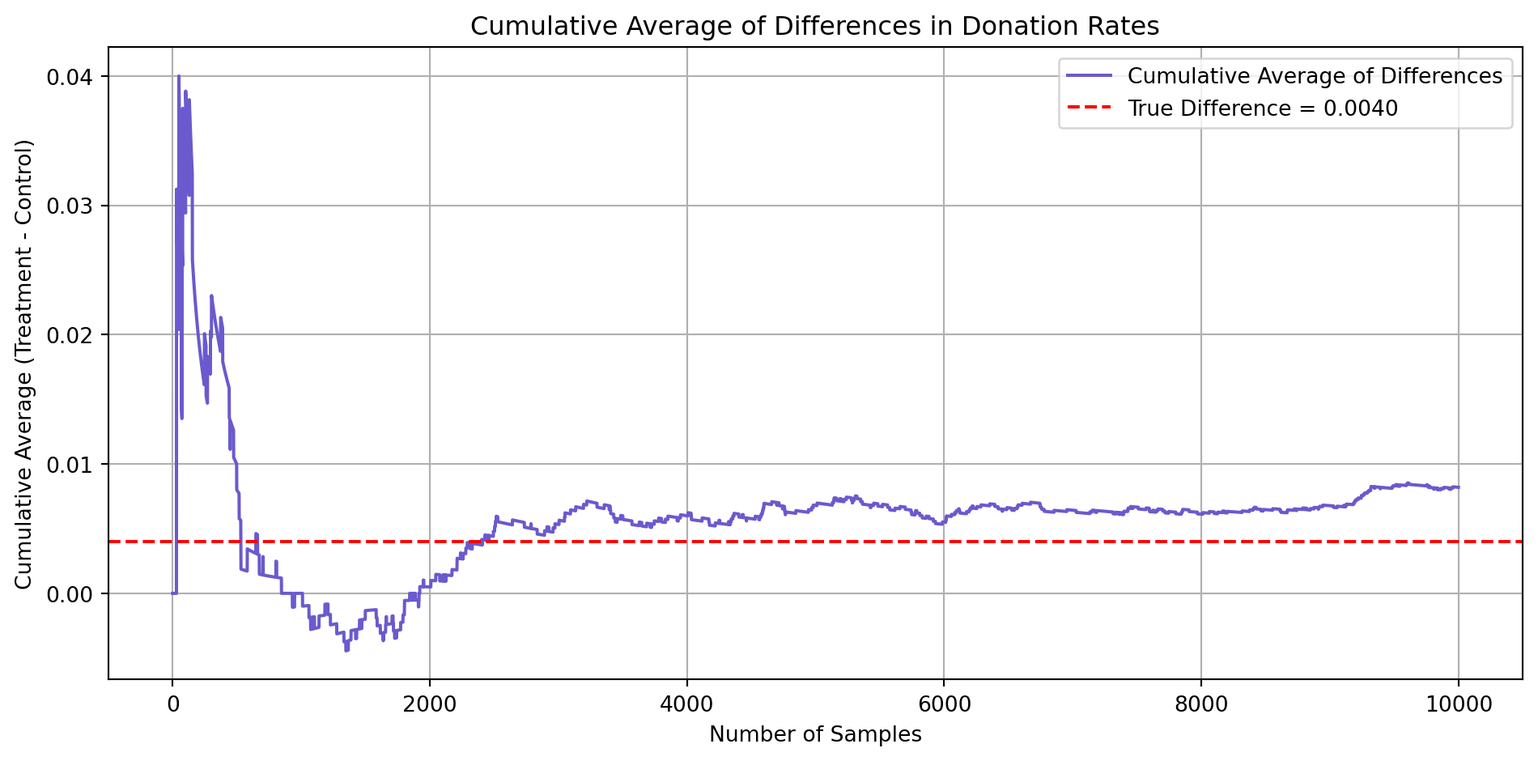
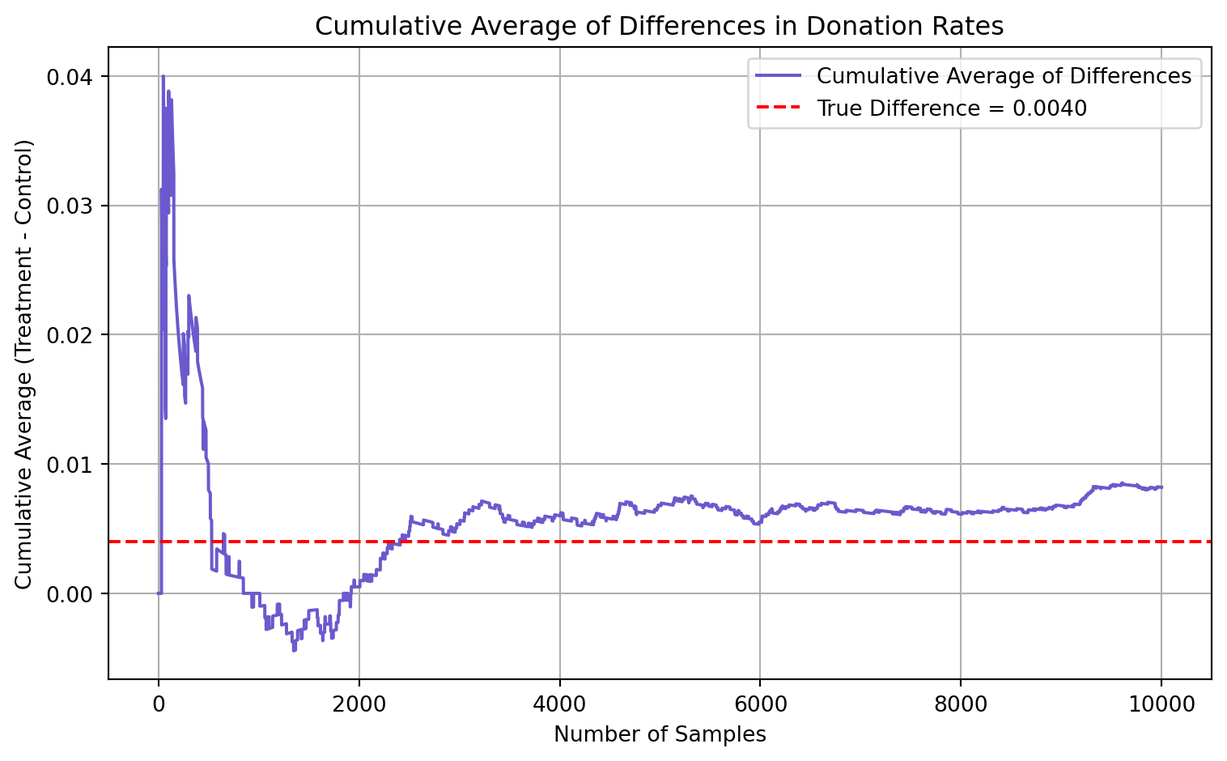
updated chart size

diff --git a/docs/blog/project1/hw1_questions.html b/docs/blog/project1/hw1_questions.html
@@ -216,7 +216,7 @@ pre > code.sourceCode > span > a:first-child::before { text-decoration: underlin
 <h2 class="anchored" data-anchor-id="data">Data</h2>
 <section id="description" class="level3">
 <h3 class="anchored" data-anchor-id="description">Description</h3>
-<div id="a45da8c8" class="cell" data-execution_count="1">
+<div id="9202c9ba" class="cell" data-execution_count="1">
 <div class="sourceCode cell-code" id="cb1"><pre class="sourceCode python code-with-copy"><code class="sourceCode python"><span id="cb1-1"><a href="#cb1-1" aria-hidden="true" tabindex="-1"></a><span class="im">import</span> numpy <span class="im">as</span> np</span>
 <span id="cb1-2"><a href="#cb1-2" aria-hidden="true" tabindex="-1"></a><span class="im">import</span> pandas <span class="im">as</span> pd</span>
 <span id="cb1-3"><a href="#cb1-3" aria-hidden="true" tabindex="-1"></a><span class="im">from</span> scipy.stats <span class="im">import</span> t</span>
@@ -490,7 +490,7 @@ Variable Definitions
 </div>
 </div>
 <p>I define a function to print results from regressions in a readable format:</p>
-<div id="9dbc6a5a" class="cell" data-execution_count="2">
+<div id="024f738c" class="cell" data-execution_count="2">
 <div class="sourceCode cell-code" id="cb3"><pre class="sourceCode python code-with-copy"><code class="sourceCode python"><span id="cb3-1"><a href="#cb3-1" aria-hidden="true" tabindex="-1"></a><span class="kw">def</span> print_clean_regression_results(model, variable_names<span class="op">=</span><span class="va">None</span>):</span>
 <span id="cb3-2"><a href="#cb3-2" aria-hidden="true" tabindex="-1"></a>    results <span class="op">=</span> model.params.to_frame(<span class="st">'Coefficient'</span>)</span>
 <span id="cb3-3"><a href="#cb3-3" aria-hidden="true" tabindex="-1"></a>    results[<span class="st">'Std. Error'</span>] <span class="op">=</span> model.bse</span>
@@ -508,7 +508,7 @@ Variable Definitions
 <h3 class="anchored" data-anchor-id="balance-test">Balance Test</h3>
 <p>As an ad hoc test of the randomization mechanism, I provide a series of tests that compare aspects of the treatment and control groups to assess whether they are statistically significantly different from one another.</p>
 <p>I create a function t_test_manual that breaks down the steps to compute a t-statistic:</p>
-<div id="c8f77f95" class="cell" data-execution_count="3">
+<div id="83e61ca8" class="cell" data-execution_count="3">
 <div class="sourceCode cell-code" id="cb4"><pre class="sourceCode python code-with-copy"><code class="sourceCode python"><span id="cb4-1"><a href="#cb4-1" aria-hidden="true" tabindex="-1"></a><span class="kw">def</span> t_test_manual(x_treat, x_control):</span>
 <span id="cb4-2"><a href="#cb4-2" aria-hidden="true" tabindex="-1"></a>    mean_treat <span class="op">=</span> np.mean(x_treat)</span>
 <span id="cb4-3"><a href="#cb4-3" aria-hidden="true" tabindex="-1"></a>    mean_control <span class="op">=</span> np.mean(x_control)</span>
@@ -529,7 +529,7 @@ Variable Definitions
 <span id="cb4-18"><a href="#cb4-18" aria-hidden="true" tabindex="-1"></a>    <span class="cf">return</span> t_stat, p_value</span></code><button title="Copy to Clipboard" class="code-copy-button"><i class="bi"></i></button></pre></div>
 </div>
 <p>I define the variables that I want to test: the number of months since last donation (mrm2), the highest previous contribution (hpa), the number of prior donations (freq), and the number of years since initial donation (years). I test these variables at the 95% confidence level and run a linear regression on each of the variables and look at the estimated coefficient on the treatment variable:</p>
-<div id="4d4bcddb" class="cell" data-execution_count="4">
+<div id="cc0f51be" class="cell" data-execution_count="4">
 <div class="sourceCode cell-code" id="cb5"><pre class="sourceCode python code-with-copy"><code class="sourceCode python"><span id="cb5-1"><a href="#cb5-1" aria-hidden="true" tabindex="-1"></a>variables <span class="op">=</span> [<span class="st">'mrm2'</span>, <span class="st">'hpa'</span>, <span class="st">'freq'</span>, <span class="st">'years'</span>]</span>
 <span id="cb5-2"><a href="#cb5-2" aria-hidden="true" tabindex="-1"></a></span>
 <span id="cb5-3"><a href="#cb5-3" aria-hidden="true" tabindex="-1"></a><span class="cf">for</span> var <span class="kw">in</span> variables:</span>
@@ -578,7 +578,7 @@ Treatment      -0.0575      0.0522   -1.1030     0.27
 <h3 class="anchored" data-anchor-id="charitable-contribution-made">Charitable Contribution Made</h3>
 <p>First, I analyze whether matched donations lead to an increased response rate of making a donation.</p>
 <p>I create a barplot that shows the proportion of people who donated in the control group and the treatment group:</p>
-<div id="18c65997" class="cell" data-execution_count="5">
+<div id="a3da6bf9" class="cell" data-execution_count="5">
 <div class="sourceCode cell-code" id="cb7"><pre class="sourceCode python code-with-copy"><code class="sourceCode python"><span id="cb7-1"><a href="#cb7-1" aria-hidden="true" tabindex="-1"></a>donation_rates <span class="op">=</span> data.groupby(<span class="st">'treatment'</span>)[<span class="st">'gave'</span>].mean()</span>
 <span id="cb7-2"><a href="#cb7-2" aria-hidden="true" tabindex="-1"></a></span>
 <span id="cb7-3"><a href="#cb7-3" aria-hidden="true" tabindex="-1"></a>plt.figure(figsize<span class="op">=</span>(<span class="dv">8</span>, <span class="dv">6</span>))</span>
@@ -593,7 +593,7 @@ Treatment      -0.0575      0.0522   -1.1030     0.27
 <span id="cb7-12"><a href="#cb7-12" aria-hidden="true" tabindex="-1"></a>plt.ylim(<span class="dv">0</span>, <span class="fl">0.03</span>)</span>
 <span id="cb7-13"><a href="#cb7-13" aria-hidden="true" tabindex="-1"></a>plt.show()</span></code><button title="Copy to Clipboard" class="code-copy-button"><i class="bi"></i></button></pre></div>
 <div class="cell-output cell-output-stderr">
-<pre><code>/var/folders/j9/vvtdz6r56zg0sw78kg9kfsk00000gn/T/ipykernel_2246/1576349855.py:4: FutureWarning: 
+<pre><code>/var/folders/j9/vvtdz6r56zg0sw78kg9kfsk00000gn/T/ipykernel_2715/1576349855.py:4: FutureWarning: 
 
 Passing `palette` without assigning `hue` is deprecated and will be removed in v0.14.0. Assign the `x` variable to `hue` and set `legend=False` for the same effect.
 
@@ -608,7 +608,7 @@ Passing `palette` without assigning `hue` is deprecated and will be removed in v
 </div>
 </div>
 <p>Next, I run a t-test between the treatment and control groups on the binary outcome of whether any charitable donation was made:</p>
-<div id="565eff0a" class="cell" data-execution_count="6">
+<div id="d1caa24f" class="cell" data-execution_count="6">
 <div class="sourceCode cell-code" id="cb9"><pre class="sourceCode python code-with-copy"><code class="sourceCode python"><span id="cb9-1"><a href="#cb9-1" aria-hidden="true" tabindex="-1"></a>treat_group <span class="op">=</span> data[data[<span class="st">'treatment'</span>] <span class="op">==</span> <span class="dv">1</span>][<span class="st">'gave'</span>]</span>
 <span id="cb9-2"><a href="#cb9-2" aria-hidden="true" tabindex="-1"></a>control_group <span class="op">=</span> data[data[<span class="st">'treatment'</span>] <span class="op">==</span> <span class="dv">0</span>][<span class="st">'gave'</span>]</span>
 <span id="cb9-3"><a href="#cb9-3" aria-hidden="true" tabindex="-1"></a></span>
@@ -619,7 +619,7 @@ Passing `palette` without assigning `hue` is deprecated and will be removed in v
 </div>
 </div>
 <p>I then run a linear regression on whether any charitable donation was made with treatment as the explanatory variable:</p>
-<div id="a6207470" class="cell" data-execution_count="7">
+<div id="f52bf15d" class="cell" data-execution_count="7">
 <div class="sourceCode cell-code" id="cb11"><pre class="sourceCode python code-with-copy"><code class="sourceCode python"><span id="cb11-1"><a href="#cb11-1" aria-hidden="true" tabindex="-1"></a>linear_model <span class="op">=</span> smf.ols(<span class="st">'gave ~ treatment'</span>, data<span class="op">=</span>data).fit()</span>
 <span id="cb11-2"><a href="#cb11-2" aria-hidden="true" tabindex="-1"></a>print_clean_regression_results(linear_model, variable_names<span class="op">=</span>{<span class="st">'Intercept'</span>: <span class="st">'Intercept'</span>, <span class="st">'treatment'</span>: <span class="st">'Treatment'</span>})</span>
 <span id="cb11-3"><a href="#cb11-3" aria-hidden="true" tabindex="-1"></a></span>
@@ -641,7 +641,7 @@ t: 3.1014, p-value: 0.0019</code></pre>
 <p>Even a small match taps into social proof and reciprocity, which are powerful motivators for charitable giving. The presence of a matching gift offer can create a sense of urgency and social pressure to contribute, leading to increased donations. This aligns with the concept of social norms, where individuals are influenced by the behavior of others in their social group. The matching gift offer serves as a signal that others are also contributing, which can motivate individuals to join in and support the cause.</p>
 <p>Donation behavior are not purely altruistic - if it was, we might expect people to give regardless of match framing. Instead, people are motivated by cues about effectiveness and urgency, suggesting many give in part for “warm glow” satisfaction - the emotional reward of feeling generous and impactful.</p>
 <p>I now run a probit regression where the outcome variable is whether any charitable donation was made and the explanatory variable is assignment to treatment or control:</p>
-<div id="441f0dd7" class="cell" data-execution_count="8">
+<div id="f56c32d9" class="cell" data-execution_count="8">
 <div class="sourceCode cell-code" id="cb13"><pre class="sourceCode python code-with-copy"><code class="sourceCode python"><span id="cb13-1"><a href="#cb13-1" aria-hidden="true" tabindex="-1"></a>probit_model <span class="op">=</span> smf.probit(<span class="st">'gave ~ treatment'</span>, data<span class="op">=</span>data).fit()</span>
 <span id="cb13-2"><a href="#cb13-2" aria-hidden="true" tabindex="-1"></a>print_clean_regression_results(probit_model, variable_names<span class="op">=</span>{<span class="st">'Intercept'</span>: <span class="st">'Intercept'</span>, <span class="st">'treatment'</span>: <span class="st">'Treatment'</span>})</span>
 <span id="cb13-3"><a href="#cb13-3" aria-hidden="true" tabindex="-1"></a></span>
@@ -673,7 +673,7 @@ treatment      0.0043      0.001      3.104      0.002       0.002       0.007
 <h3 class="anchored" data-anchor-id="differences-between-match-rates">Differences between Match Rates</h3>
 <p>Next, I assess the effectiveness of different sizes of matched donations on the response rate.</p>
 <p>I conduct a series of t-tests to test whether the size of the match ratio has an effect on whether people donate or not:</p>
-<div id="6797aa57" class="cell" data-execution_count="9">
+<div id="45a8ca5f" class="cell" data-execution_count="9">
 <div class="sourceCode cell-code" id="cb15"><pre class="sourceCode python code-with-copy"><code class="sourceCode python"><span id="cb15-1"><a href="#cb15-1" aria-hidden="true" tabindex="-1"></a>ratios <span class="op">=</span> [<span class="dv">1</span>, <span class="dv">2</span>, <span class="dv">3</span>]</span>
 <span id="cb15-2"><a href="#cb15-2" aria-hidden="true" tabindex="-1"></a>pairwise_results <span class="op">=</span> {}</span>
 <span id="cb15-3"><a href="#cb15-3" aria-hidden="true" tabindex="-1"></a></span>
@@ -700,7 +700,7 @@ treatment      0.0043      0.001      3.104      0.002       0.002       0.007
 <p>This demonstrates that higher match ratios, such as 3:1 compared to 1:1, do <strong>not</strong> lead to a statistically significantly greater increase in donor participation. A basic 1:1 match performs almost as well, making it a more cost-effective option. This indicates that nonprofits can generate comparable donor response using lower match ratios, which may help maximize the impact of their fundraising resources.</p>
 <p>From the paper, the author makes the comment: “the figures suggest that neither the match threshold nor the example amount had a meaningful influence on behavior.” The results of the t-test reinforce this comment as the different match ratios do not have a significant effect on the donation.</p>
 <p>I approach the same problem using a regression approach. I create the variable <code>ratio1</code> then regress <code>gave</code> on <code>ratio1</code>, <code>ratio2</code>, and <code>ratio3</code>:</p>
-<div id="591f7f06" class="cell" data-execution_count="10">
+<div id="454d10d8" class="cell" data-execution_count="10">
 <div class="sourceCode cell-code" id="cb17"><pre class="sourceCode python code-with-copy"><code class="sourceCode python"><span id="cb17-1"><a href="#cb17-1" aria-hidden="true" tabindex="-1"></a>data[<span class="st">'ratio1'</span>] <span class="op">=</span> (data[<span class="st">'ratio'</span>] <span class="op">==</span> <span class="dv">1</span>).astype(<span class="bu">int</span>)</span>
 <span id="cb17-2"><a href="#cb17-2" aria-hidden="true" tabindex="-1"></a>regression_model <span class="op">=</span> smf.ols(<span class="st">'gave ~ ratio1 + ratio2 + ratio3'</span>, data<span class="op">=</span>data).fit()</span>
 <span id="cb17-3"><a href="#cb17-3" aria-hidden="true" tabindex="-1"></a>print_clean_regression_results(regression_model, variable_names<span class="op">=</span>{</span>
@@ -719,7 +719,7 @@ Match 3:1       0.0049      0.0017   2.8016   0.0051</code></pre>
 </div>
 <p>I interpret the coefficients and their statistical precision: the intercept (1.79%) is the baseline donation rate for the control group. The ratio1 (1:1) adds +0.29% to that (total ≈ 2.68%), but the result is significant at a 90% confidence level (p-value ≈ 0.096). ratio2 (2:1) and ratio3 (3:1) both raise donation rates by 0.48 and 0.49% respectively to 2.66 and 2.68% and are statistically significant at the 1% level (with p-values of 0.0061 and 0.0051 respectively).</p>
 <p>I calculate the response rate difference between the 1:1 and 2:1 match ratios and the 2:1 and 3:1 ratios. I do this directly from the data:</p>
-<div id="1c1e78a4" class="cell" data-execution_count="11">
+<div id="e2390ae0" class="cell" data-execution_count="11">
 <div class="sourceCode cell-code" id="cb19"><pre class="sourceCode python code-with-copy"><code class="sourceCode python"><span id="cb19-1"><a href="#cb19-1" aria-hidden="true" tabindex="-1"></a>response_rates <span class="op">=</span> data.groupby(<span class="st">'ratio'</span>, observed<span class="op">=</span><span class="va">False</span>)[<span class="st">'gave'</span>].mean()</span>
 <span id="cb19-2"><a href="#cb19-2" aria-hidden="true" tabindex="-1"></a></span>
 <span id="cb19-3"><a href="#cb19-3" aria-hidden="true" tabindex="-1"></a>coef_ratio2 <span class="op">=</span> regression_model.params[<span class="st">'ratio2'</span>]</span>
@@ -746,7 +746,7 @@ Difference (3:1 - 2:1): 0.0001</code></pre>
 </div>
 <p>The difference from the raw data between the 1:1 match and the 2:1 match is <strong>0.0019</strong> and the difference from the raw data between the 1:1 match and the 3:1 match is <strong>0.0001</strong>.</p>
 <p>I now calculate the response rate difference between the 1:1 and 2:1 match ratios and the 2:1 and 3:1 ratios with the fitted coefficients from the regression:</p>
-<div id="6202062f" class="cell" data-execution_count="12">
+<div id="757ed814" class="cell" data-execution_count="12">
 <div class="sourceCode cell-code" id="cb21"><pre class="sourceCode python code-with-copy"><code class="sourceCode python"><span id="cb21-1"><a href="#cb21-1" aria-hidden="true" tabindex="-1"></a>pred_1to1 <span class="op">=</span> intercept</span>
 <span id="cb21-2"><a href="#cb21-2" aria-hidden="true" tabindex="-1"></a>pred_2to1 <span class="op">=</span> intercept <span class="op">+</span> coef_ratio2</span>
 <span id="cb21-3"><a href="#cb21-3" aria-hidden="true" tabindex="-1"></a>pred_3to1 <span class="op">=</span> intercept <span class="op">+</span> coef_ratio3</span>
@@ -777,7 +777,7 @@ Difference (3:1 - 2:1): 0.0001</code></pre>
 <h3 class="anchored" data-anchor-id="size-of-charitable-contribution">Size of Charitable Contribution</h3>
 <p>In this subsection, I analyze the effect of the size of matched donation on the size of the charitable contribution.</p>
 <p>I run a bivariate linear regression of the donation amount on the treatment status:</p>
-<div id="de472acb" class="cell" data-execution_count="13">
+<div id="8f402ec9" class="cell" data-execution_count="13">
 <div class="sourceCode cell-code" id="cb23"><pre class="sourceCode python code-with-copy"><code class="sourceCode python"><span id="cb23-1"><a href="#cb23-1" aria-hidden="true" tabindex="-1"></a>reg_all <span class="op">=</span> smf.ols(<span class="st">"amount ~ treatment"</span>, data<span class="op">=</span>data).fit()</span>
 <span id="cb23-2"><a href="#cb23-2" aria-hidden="true" tabindex="-1"></a><span class="bu">print</span>(<span class="st">"Regression on all participants (includes non-donors):"</span>)</span>
 <span id="cb23-3"><a href="#cb23-3" aria-hidden="true" tabindex="-1"></a>print_clean_regression_results(reg_all, variable_names<span class="op">=</span>{<span class="st">'Intercept'</span>: <span class="st">'Intercept'</span>, <span class="st">'treatment'</span>: <span class="st">'Treatment'</span>})</span></code><button title="Copy to Clipboard" class="code-copy-button"><i class="bi"></i></button></pre></div>
@@ -790,7 +790,7 @@ Treatment       0.1536      0.0826   1.8605   0.0628</code></pre>
 </div>
 <p>People in the control group gave $0.81 on average (including non-donors). Being in the treatment group increases the average donation by $0.15, a 19% increase, but this is only significant at a 10% significance level (p ≈ 0.06). Most people didn’t donate, making the average low because the dataset includes a lot of zeros.</p>
 <p>Now I limit the data to just people who made a donation and repeat the previous analysis. This regression allows me to analyze how much respondents donate conditional on donating some positive amount:</p>
-<div id="b1a826b5" class="cell" data-execution_count="14">
+<div id="ad017ec8" class="cell" data-execution_count="14">
 <div class="sourceCode cell-code" id="cb25"><pre class="sourceCode python code-with-copy"><code class="sourceCode python"><span id="cb25-1"><a href="#cb25-1" aria-hidden="true" tabindex="-1"></a>data_donated <span class="op">=</span> data[data[<span class="st">'gave'</span>] <span class="op">==</span> <span class="dv">1</span>]</span>
 <span id="cb25-2"><a href="#cb25-2" aria-hidden="true" tabindex="-1"></a>reg_conditional <span class="op">=</span> smf.ols(<span class="st">"amount ~ treatment"</span>, data<span class="op">=</span>data_donated).fit()</span>
 <span id="cb25-3"><a href="#cb25-3" aria-hidden="true" tabindex="-1"></a><span class="bu">print</span>(<span class="st">"</span><span class="ch">\n</span><span class="st">Regression on donors only (conditional on giving):"</span>)</span>
@@ -807,7 +807,7 @@ Treatment      -1.6684      2.8724  -0.5808   0.5615</code></pre>
 <p>Donors who received the matching grant treatment gave $1.67 less than control donors. This difference is not statistically significant (p = 0.561).</p>
 <p>This regression confirms that among people who already decided to donate, the amount they gave did not increase with a match incentive. This confirms the statement in the paper that reads “The match increases participation, but does not significantly affect the donation amount conditional on giving.” The treatment coefficient has a causal interpretation about the effect on donors since this regression is conditional on giving. Donors were randomly assigned to treatment (match) or control (no match) and random assignment ensures that treatment is independent of unobserved confounders. So the coefficient on treatment estimates the causal effect of being offered a match.</p>
 <p>I make two plot: one for the treatment group and one for the control. Each plot shows a histogram of the donation amounts only among people who donated:</p>
-<div id="85b5553d" class="cell" data-execution_count="15">
+<div id="b40ba7bc" class="cell" data-execution_count="15">
 <div class="sourceCode cell-code" id="cb27"><pre class="sourceCode python code-with-copy"><code class="sourceCode python"><span id="cb27-1"><a href="#cb27-1" aria-hidden="true" tabindex="-1"></a>fig, axs <span class="op">=</span> plt.subplots(<span class="dv">1</span>, <span class="dv">2</span>, figsize<span class="op">=</span>(<span class="dv">8</span>, <span class="dv">5</span>), sharey<span class="op">=</span><span class="va">True</span>)</span>
 <span id="cb27-2"><a href="#cb27-2" aria-hidden="true" tabindex="-1"></a></span>
 <span id="cb27-3"><a href="#cb27-3" aria-hidden="true" tabindex="-1"></a>control_donated <span class="op">=</span> data_donated[data_donated[<span class="st">'treatment'</span>] <span class="op">==</span> <span class="dv">0</span>][<span class="st">'amount'</span>]</span>
@@ -846,7 +846,7 @@ Treatment      -1.6684      2.8724  -0.5808   0.5615</code></pre>
 <p>Suppose the true distribution of respondents who do not get a charitable donation match is Bernoulli with probability p=0.018 that a donation is made.</p>
 <p>Further suppose that the true distribution of respondents who do get a charitable donation match of any size is Bernoulli with probability p=0.022 that a donation is made.</p>
 <p>First, we compute the actual difference in the data:</p>
-<div id="8de67cc2" class="cell" data-execution_count="16">
+<div id="5c5e64e6" class="cell" data-execution_count="16">
 <div class="sourceCode cell-code" id="cb28"><pre class="sourceCode python code-with-copy"><code class="sourceCode python"><span id="cb28-1"><a href="#cb28-1" aria-hidden="true" tabindex="-1"></a>p_control_data <span class="op">=</span> data[data[<span class="st">'control'</span>] <span class="op">==</span> <span class="dv">1</span>][<span class="st">'gave'</span>].mean()</span>
 <span id="cb28-2"><a href="#cb28-2" aria-hidden="true" tabindex="-1"></a>p_treatment_data <span class="op">=</span> data[data[<span class="st">'treatment'</span>] <span class="op">==</span> <span class="dv">1</span>][<span class="st">'gave'</span>].mean()</span>
 <span id="cb28-3"><a href="#cb28-3" aria-hidden="true" tabindex="-1"></a>diff_data <span class="op">=</span> p_treatment_data <span class="op">-</span> p_control_data</span>
@@ -860,7 +860,7 @@ Treatment      -1.6684      2.8724  -0.5808   0.5615</code></pre>
 <section id="law-of-large-numbers" class="level3">
 <h3 class="anchored" data-anchor-id="law-of-large-numbers">Law of Large Numbers</h3>
 <p>I now simulate 10,000 draws from the control distribution and 10,000 draws from the treatment distribution. I then calculate a vector of 10,000 differences. I present a histogram for the sampling distributions for the treatment group, the control group, and the difference between the two groups:</p>
-<div id="576c1247" class="cell" data-execution_count="17">
+<div id="6ffb87ab" class="cell" data-execution_count="17">
 <div class="sourceCode cell-code" id="cb30"><pre class="sourceCode python code-with-copy"><code class="sourceCode python"><span id="cb30-1"><a href="#cb30-1" aria-hidden="true" tabindex="-1"></a>np.random.seed(<span class="dv">42</span>)</span>
 <span id="cb30-2"><a href="#cb30-2" aria-hidden="true" tabindex="-1"></a></span>
 <span id="cb30-3"><a href="#cb30-3" aria-hidden="true" tabindex="-1"></a>p_control <span class="op">=</span> <span class="fl">0.018</span></span>
@@ -914,7 +914,7 @@ Treatment      -1.6684      2.8724  -0.5808   0.5615</code></pre>
 </div>
 </div>
 <p>I plot the cumulative average of the vector of differences:</p>
-<div id="60edf114" class="cell" data-execution_count="18">
+<div id="476542f0" class="cell" data-execution_count="18">
 <div class="sourceCode cell-code" id="cb31"><pre class="sourceCode python code-with-copy"><code class="sourceCode python"><span id="cb31-1"><a href="#cb31-1" aria-hidden="true" tabindex="-1"></a>np.random.seed(<span class="dv">42</span>)</span>
 <span id="cb31-2"><a href="#cb31-2" aria-hidden="true" tabindex="-1"></a></span>
 <span id="cb31-3"><a href="#cb31-3" aria-hidden="true" tabindex="-1"></a>n_control <span class="op">=</span> <span class="dv">10000</span></span>
@@ -929,7 +929,7 @@ Treatment      -1.6684      2.8724  -0.5808   0.5615</code></pre>
 <span id="cb31-12"><a href="#cb31-12" aria-hidden="true" tabindex="-1"></a></span>
 <span id="cb31-13"><a href="#cb31-13" aria-hidden="true" tabindex="-1"></a>cumulative_avg <span class="op">=</span> np.cumsum(differences) <span class="op">/</span> np.arange(<span class="dv">1</span>, <span class="bu">len</span>(differences) <span class="op">+</span> <span class="dv">1</span>)</span>
 <span id="cb31-14"><a href="#cb31-14" aria-hidden="true" tabindex="-1"></a></span>
-<span id="cb31-15"><a href="#cb31-15" aria-hidden="true" tabindex="-1"></a>plt.figure(figsize<span class="op">=</span>(<span class="dv">10</span>, <span class="dv">5</span>))</span>
+<span id="cb31-15"><a href="#cb31-15" aria-hidden="true" tabindex="-1"></a>plt.figure(figsize<span class="op">=</span>(<span class="dv">8</span>, <span class="dv">5</span>))</span>
 <span id="cb31-16"><a href="#cb31-16" aria-hidden="true" tabindex="-1"></a>plt.plot(cumulative_avg, label<span class="op">=</span><span class="st">'Cumulative Average of Differences'</span>, color<span class="op">=</span><span class="st">'slateblue'</span>)</span>
 <span id="cb31-17"><a href="#cb31-17" aria-hidden="true" tabindex="-1"></a>plt.axhline(y<span class="op">=</span>p_treatment <span class="op">-</span> p_control, color<span class="op">=</span><span class="st">'red'</span>, linestyle<span class="op">=</span><span class="st">'--'</span>, label<span class="op">=</span><span class="ss">f"True Difference = </span><span class="sc">{</span>p_treatment <span class="op">-</span> p_control<span class="sc">:.4f}</span><span class="ss">"</span>)</span>
 <span id="cb31-18"><a href="#cb31-18" aria-hidden="true" tabindex="-1"></a>plt.title(<span class="st">"Cumulative Average of Differences in Donation Rates"</span>)</span>
@@ -942,7 +942,7 @@ Treatment      -1.6684      2.8724  -0.5808   0.5615</code></pre>
 <div class="cell-output cell-output-display">
 <div>
 <figure class="figure">
-<p><img src="hw1_questions_files/figure-html/cell-19-output-1.png" width="950" height="470" class="figure-img"></p>
+<p><img src="hw1_questions_files/figure-html/cell-19-output-1.png" width="758" height="470" class="figure-img"></p>
 </figure>
 </div>
 </div>
@@ -954,7 +954,7 @@ Treatment      -1.6684      2.8724  -0.5808   0.5615</code></pre>
 <section id="central-limit-theorem" class="level3">
 <h3 class="anchored" data-anchor-id="central-limit-theorem">Central Limit Theorem</h3>
 <p>In this section of the analysis, I generated sampling distributions of the difference in donation rates between treatment and control groups by repeatedly drawing samples of different sizes (50, 200, 500, and 1000) and calculating the average difference in donation rates for each draw. I plot the histograms of the distributions:</p>
-<div id="64141802" class="cell" data-execution_count="19">
+<div id="4f5470cc" class="cell" data-execution_count="19">
 <div class="sourceCode cell-code" id="cb32"><pre class="sourceCode python code-with-copy"><code class="sourceCode python"><span id="cb32-1"><a href="#cb32-1" aria-hidden="true" tabindex="-1"></a>np.random.seed(<span class="dv">42</span>)</span>
 <span id="cb32-2"><a href="#cb32-2" aria-hidden="true" tabindex="-1"></a></span>
 <span id="cb32-3"><a href="#cb32-3" aria-hidden="true" tabindex="-1"></a>sample_sizes <span class="op">=</span> [<span class="dv">50</span>, <span class="dv">200</span>, <span class="dv">500</span>, <span class="dv">1000</span>]</span>

diff --git a/docs/blog.html b/docs/blog.html
@@ -202,7 +202,7 @@ window.Quarto = {
 
 <div class="quarto-listing quarto-listing-container-grid" id="listing-listing">
 <div class="list grid quarto-listing-cols-3">
-<div class="g-col-1" data-index="0" data-listing-date-sort="1745391600000" data-listing-file-modified-sort="1745458963408" data-listing-date-modified-sort="NaN" data-listing-reading-time-sort="31" data-listing-word-count-sort="6043">
+<div class="g-col-1" data-index="0" data-listing-date-sort="1745391600000" data-listing-file-modified-sort="1745459187606" data-listing-date-modified-sort="NaN" data-listing-reading-time-sort="31" data-listing-word-count-sort="6043">
 <a href="./blog/project1/hw1_questions.html" class="quarto-grid-link">
 <div class="quarto-grid-item card h-100 card-left">
 <p class="card-img-top"><img src="blog/project1/hw1_questions_files/figure-html/cell-6-output-2.png" style="height: 150px;"  class="thumbnail-image card-img"/></p>
